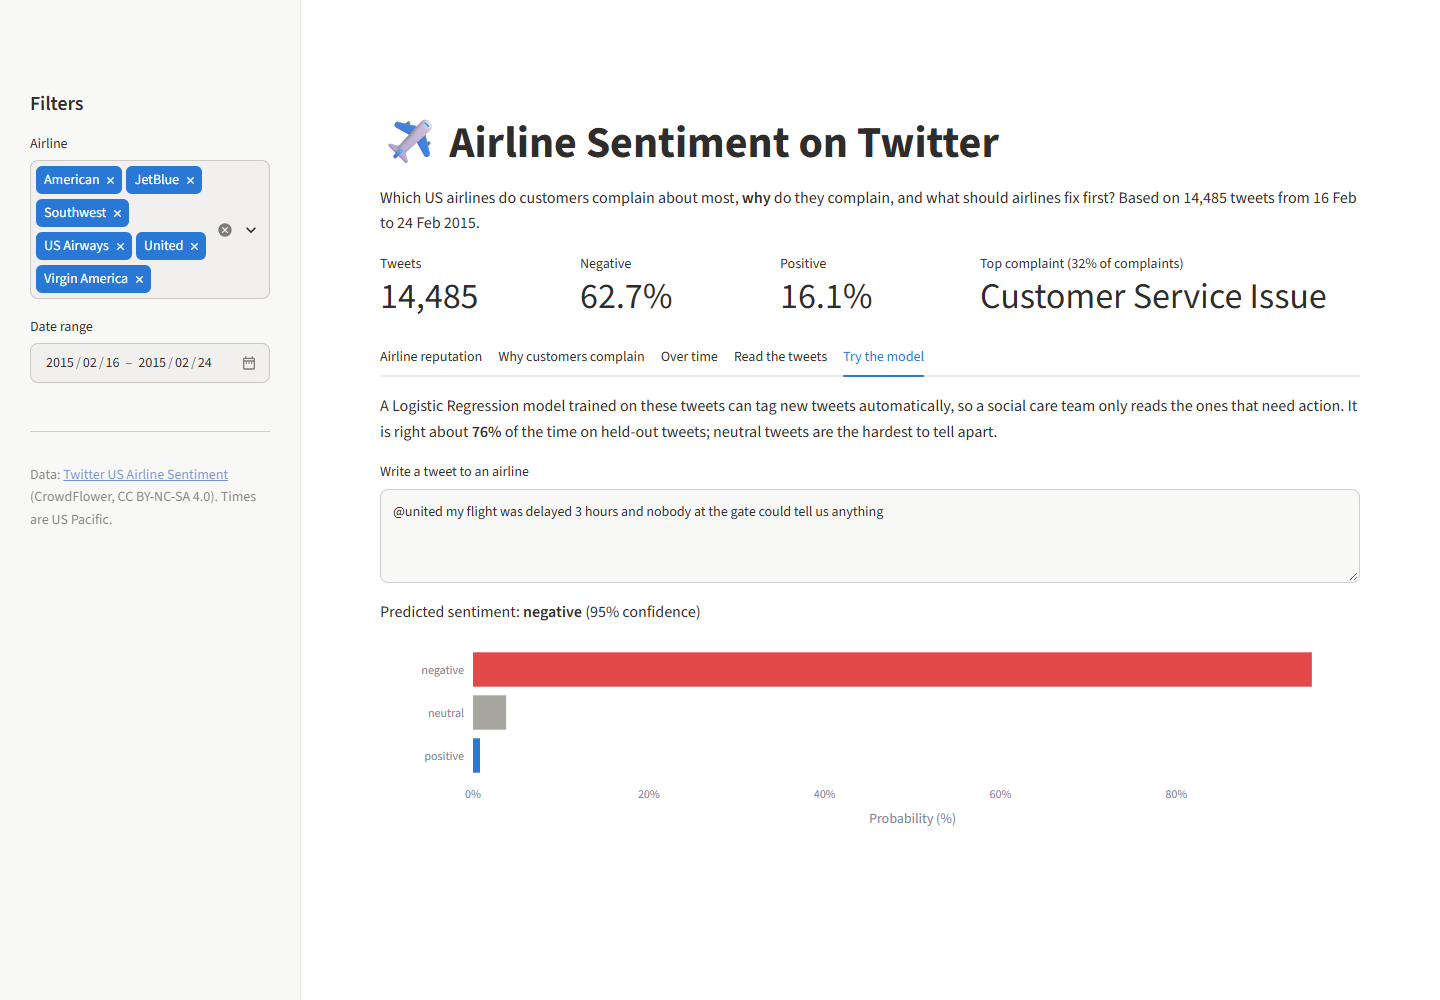
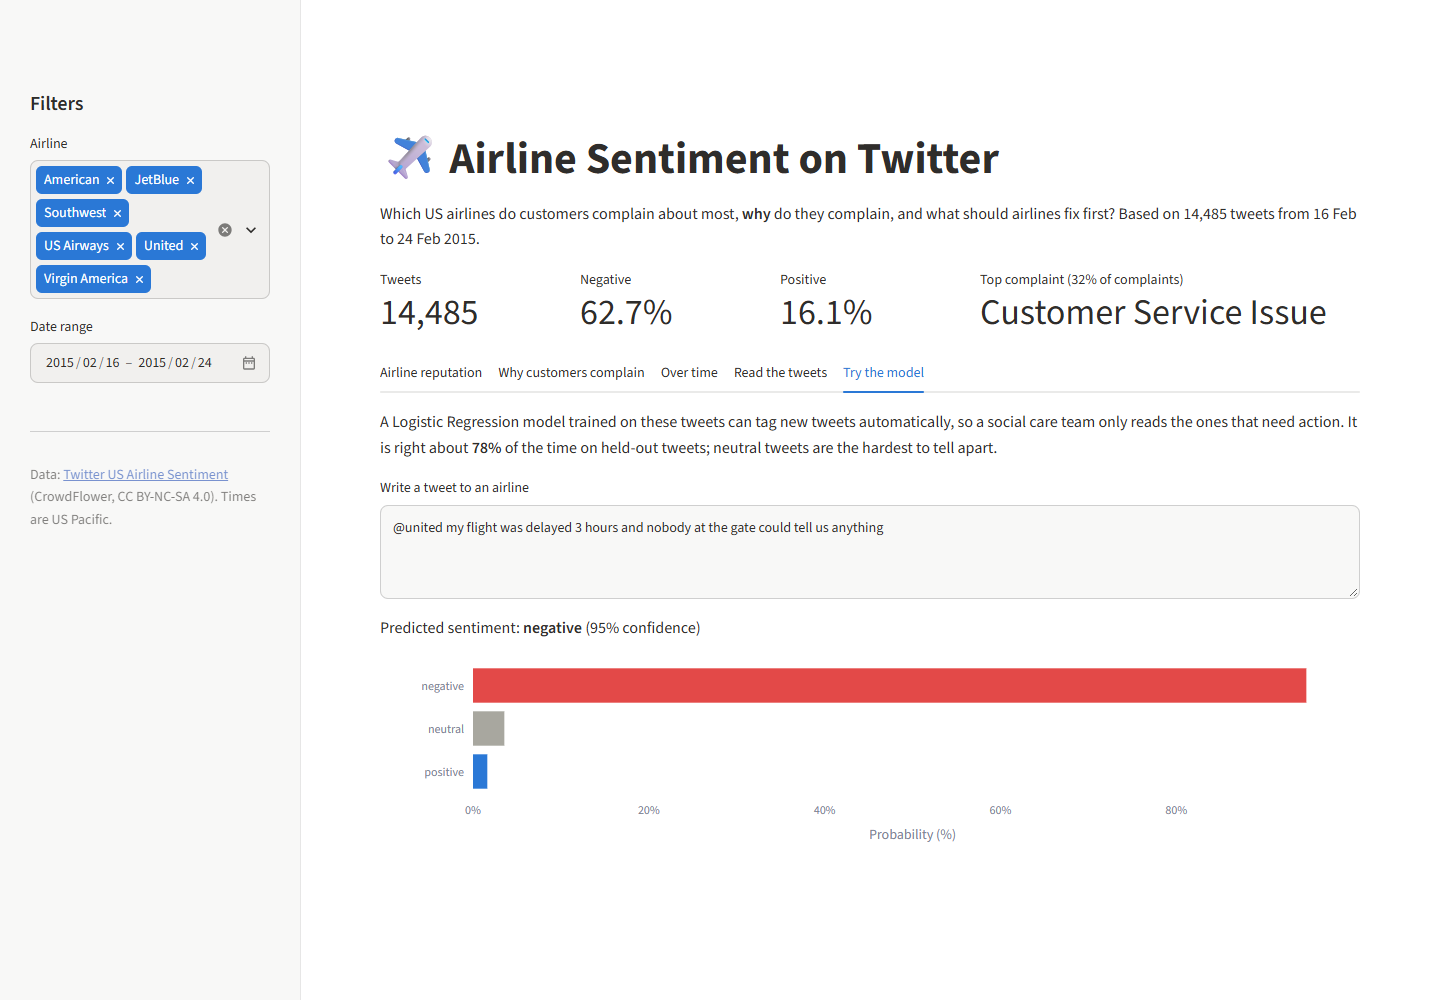
feat: show the most negative time of day in the dashboard

diff --git a/src/metrics.py b/src/metrics.py
@@ -56,6 +56,17 @@ def daily_negative_share(df: pd.DataFrame, min_tweets: int = 30) -> pd.DataFrame
     return out[out["tweets"] >= min_tweets].reset_index(drop=True)
 
 
+DAYPARTS = {"night (00-05)": range(0, 6), "morning (06-11)": range(6, 12),
+            "afternoon (12-17)": range(12, 18), "evening (18-23)": range(18, 24)}
+
+
+def negative_share_by_daypart(df: pd.DataFrame) -> pd.Series:
+    """Percent of negative tweets in each part of the day (Pacific time)."""
+    part = df["hour"].map({h: name for name, hours in DAYPARTS.items() for h in hours})
+    share = df["sentiment"].eq("negative").groupby(part).mean() * 100
+    return share.reindex(list(DAYPARTS)).dropna()
+
+
 def hourly_volume(df: pd.DataFrame) -> pd.DataFrame:
     """Tweet count per hour of day (Pacific time) and sentiment."""
     out = df.groupby(["hour", "sentiment"]).size().rename("tweets").reset_index()

diff --git a/app/streamlit_app.py b/app/streamlit_app.py
@@ -231,6 +231,13 @@ with tab_time:
     )
 
     st.subheader("When do people tweet? (hour of day, US Pacific)")
+    dayparts = metrics.negative_share_by_daypart(df)
+    if len(dayparts) > 1:
+        st.markdown(
+            f"Most tweets arrive during the day, but the **{dayparts.idxmax()}** is the most negative: "
+            f"**{dayparts.max():.1f}%** of tweets are negative, versus **{dayparts.min():.1f}%** in the "
+            f"**{dayparts.idxmin()}**."
+        )
     hourly = metrics.hourly_volume(df)
     fig = px.bar(
         hourly,

diff --git a/tests/test_dashboard.py b/tests/test_dashboard.py
@@ -101,6 +101,12 @@ def test_daily_share_drops_thin_days(prepared):
     assert metrics.daily_negative_share(prepared, min_tweets=3).empty
 
 
+def test_negative_share_by_daypart(prepared):
+    # Fixture hours: 11 (negative), 23 (negative), 8 (positive), 9 (neutral)
+    share = metrics.negative_share_by_daypart(prepared)
+    assert share.to_dict() == {"morning (06-11)": pytest.approx(100 / 3), "evening (18-23)": 100.0}
+
+
 def test_kpis(prepared):
     k = metrics.kpis(prepared)
     assert k["tweets"] == 4
